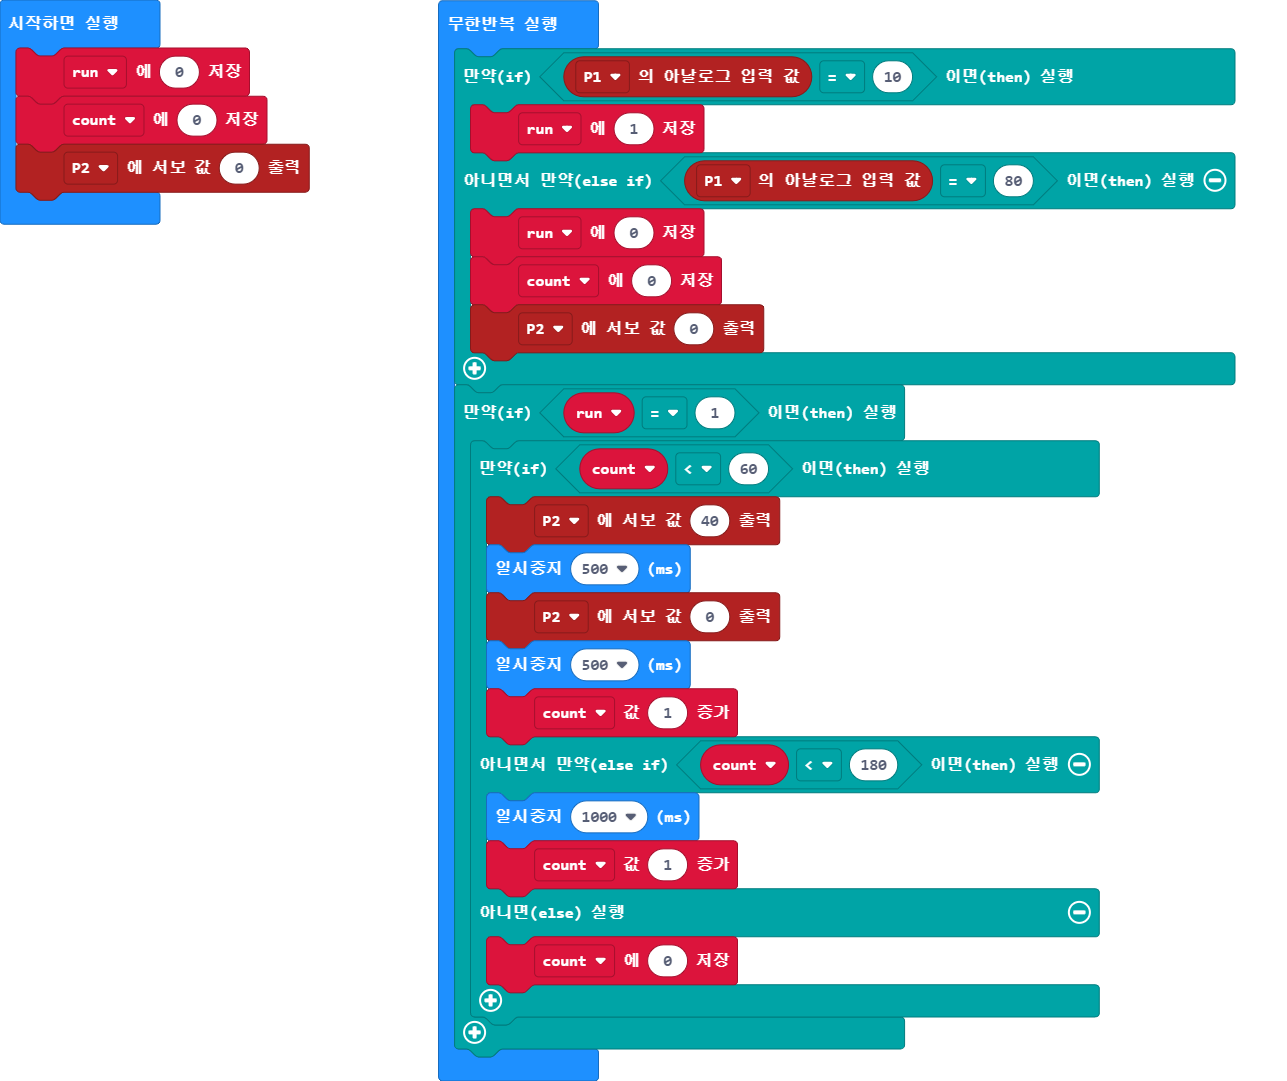
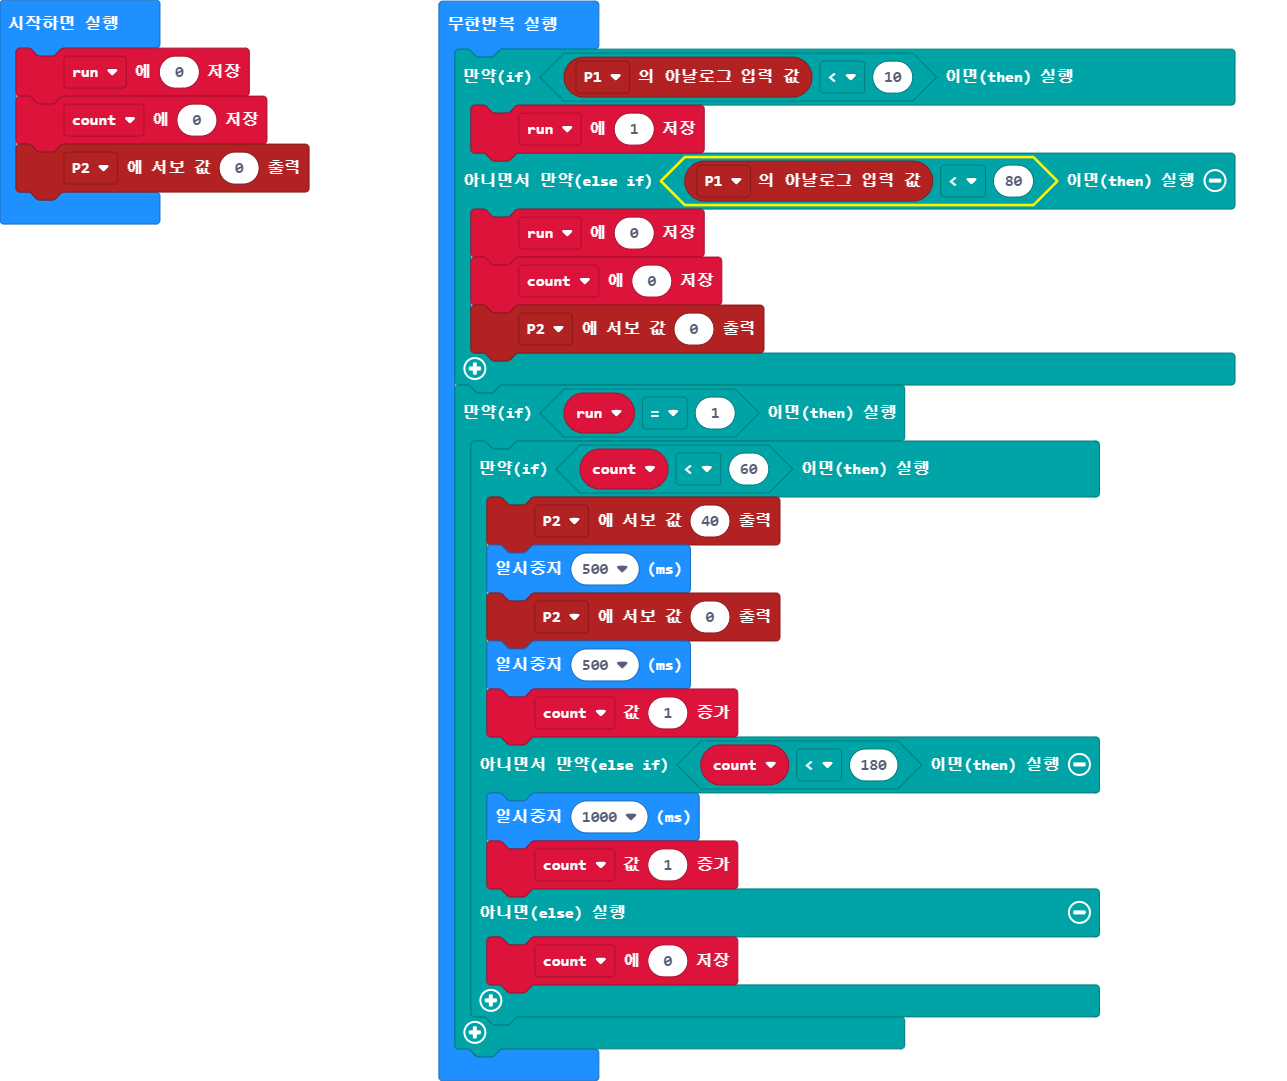
pxt.json, main.blocks, main.ts 업데이트하기

diff --git a/main.ts b/main.ts
@@ -1,16 +1,14 @@
 let run = 0
 let count = 0
 pins.servoWritePin(AnalogPin.P2, 0)
-basic.forever(function on_forever() {
-    
-    if (pins.analogReadPin(AnalogPin.P1) == 10) {
+basic.forever(function () {
+    if (pins.analogReadPin(AnalogPin.P1) < 10) {
         run = 1
-    } else if (pins.analogReadPin(AnalogPin.P1) == 80) {
+    } else if (pins.analogReadPin(AnalogPin.P1) < 80) {
         run = 0
         count = 0
         pins.servoWritePin(AnalogPin.P2, 0)
     }
-    
     if (run == 1) {
         if (count < 60) {
             pins.servoWritePin(AnalogPin.P2, 40)
@@ -24,7 +22,5 @@ basic.forever(function on_forever() {
         } else {
             count = 0
         }
-        
     }
-    
 })
